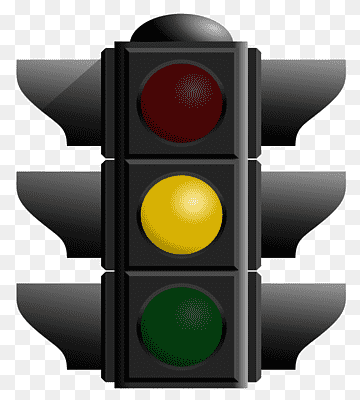
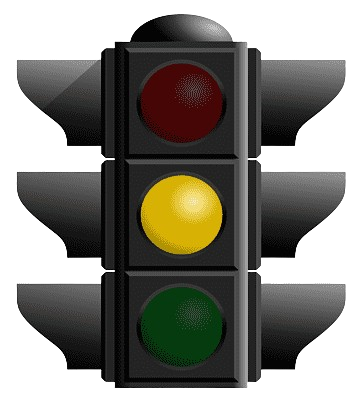
Se agregaron nuevas estructuras para la generacion de html dentro de javascript

diff --git a/js/app.js b/js/app.js
@@ -1,29 +1,29 @@
 
 // iconos en formato svg de relojes para cada hora
 const relojesHoras = {
-  1: `<svg xmlns="http://www.w3.org/2000/svg" viewBox="0 0 200 200" width="100" height="100"><circle cx="100" cy="100" r="85" fill="#ffffff" stroke="#2c3e50" stroke-width="6"/><line x1="100" y1="23" x2="100" y2="33" stroke="#2c3e50" stroke-width="4" stroke-linecap="round"/><line x1="177" y1="100" x2="167" y2="100" stroke="#2c3e50" stroke-width="4" stroke-linecap="round"/><line x1="100" y1="177" x2="100" y2="167" stroke="#2c3e50" stroke-width="4" stroke-linecap="round"/><line x1="23" y1="100" x2="33" y2="100" stroke="#2c3e50" stroke-width="4" stroke-linecap="round"/><line x1="100" y1="100" x2="142" y2="58" stroke="#2c3e50" stroke-width="6" stroke-linecap="round"/><line x1="100" y1="100" x2="100" y2="38" stroke="#2c3e50" stroke-width="4" stroke-linecap="round"/><circle cx="100" cy="100" r="5" fill="#e74c3c"/></svg>`,
+  1: `<svg xmlns="http://www.w3.org/2000/svg" viewBox="0 0 200 200" width="100" height="100"><circle cx="100" cy="100" r="85" fill="#ffffff" stroke="#2c3e50" stroke-width="6"/><line x1="100" y1="23" x2="100" y2="33" stroke="#2c3e50" stroke-width="4" stroke-linecap="round"/><line x1="177" y1="100" x2="167" y2="100" stroke="#2c3e50" stroke-width="4" stroke-linecap="round"/><line x1="100" y1="177" x2="100" y2="167" stroke="#2c3e50" stroke-width="4" stroke-linecap="round"/><line x1="23" y1="100" x2="33" y2="100" stroke="#2c3e50" stroke-width="4" stroke-linecap="round"/><line x1="100" y1="100" x2="122" y2="62" stroke="#2c3e50" stroke-width="6" stroke-linecap="round"/><line x1="100" y1="100" x2="100" y2="38" stroke="#2c3e50" stroke-width="4" stroke-linecap="round"/><circle cx="100" cy="100" r="5" fill="#e74c3c"/></svg>`,
   
-  2: `<svg xmlns="http://www.w3.org/2000/svg" viewBox="0 0 200 200" width="100" height="100"><circle cx="100" cy="100" r="85" fill="#ffffff" stroke="#2c3e50" stroke-width="6"/><line x1="100" y1="23" x2="100" y2="33" stroke="#2c3e50" stroke-width="4" stroke-linecap="round"/><line x1="177" y1="100" x2="167" y2="100" stroke="#2c3e50" stroke-width="4" stroke-linecap="round"/><line x1="100" y1="177" x2="100" y2="167" stroke="#2c3e50" stroke-width="4" stroke-linecap="round"/><line x1="23" y1="100" x2="33" y2="100" stroke="#2c3e50" stroke-width="4" stroke-linecap="round"/><line x1="100" y1="100" x2="142" y2="100" stroke="#2c3e50" stroke-width="6" stroke-linecap="round" transform="rotate(30 100 100)"/><line x1="100" y1="100" x2="100" y2="38" stroke="#2c3e50" stroke-width="4" stroke-linecap="round"/><circle cx="100" cy="100" r="5" fill="#e74c3c"/></svg>`,
+  2: `<svg xmlns="http://www.w3.org/2000/svg" viewBox="0 0 200 200" width="100" height="100"><circle cx="100" cy="100" r="85" fill="#ffffff" stroke="#2c3e50" stroke-width="6"/><line x1="100" y1="23" x2="100" y2="33" stroke="#2c3e50" stroke-width="4" stroke-linecap="round"/><line x1="177" y1="100" x2="167" y2="100" stroke="#2c3e50" stroke-width="4" stroke-linecap="round"/><line x1="100" y1="177" x2="100" y2="167" stroke="#2c3e50" stroke-width="4" stroke-linecap="round"/><line x1="23" y1="100" x2="33" y2="100" stroke="#2c3e50" stroke-width="4" stroke-linecap="round"/><line x1="100" y1="100" x2="138" y2="78" stroke="#2c3e50" stroke-width="6" stroke-linecap="round"/><line x1="100" y1="100" x2="100" y2="38" stroke="#2c3e50" stroke-width="4" stroke-linecap="round"/><circle cx="100" cy="100" r="5" fill="#e74c3c"/></svg>`,
   
-  3: `<svg xmlns="http://www.w3.org/2000/svg" viewBox="0 0 200 200" width="100" height="100"><circle cx="100" cy="100" r="85" fill="#ffffff" stroke="#2c3e50" stroke-width="6"/><line x1="100" y1="23" x2="100" y2="33" stroke="#2c3e50" stroke-width="4" stroke-linecap="round"/><line x1="177" y1="100" x2="167" y2="100" stroke="#2c3e50" stroke-width="4" stroke-linecap="round"/><line x1="100" y1="177" x2="100" y2="167" stroke="#2c3e50" stroke-width="4" stroke-linecap="round"/><line x1="23" y1="100" x2="33" y2="100" stroke="#2c3e50" stroke-width="4" stroke-linecap="round"/><line x1="100" y1="100" x2="155" y2="100" stroke="#2c3e50" stroke-width="6" stroke-linecap="round"/><line x1="100" y1="100" x2="100" y2="38" stroke="#2c3e50" stroke-width="4" stroke-linecap="round"/><circle cx="100" cy="100" r="5" fill="#e74c3c"/></svg>`,
+  3: `<svg xmlns="http://www.w3.org/2000/svg" viewBox="0 0 200 200" width="100" height="100"><circle cx="100" cy="100" r="85" fill="#ffffff" stroke="#2c3e50" stroke-width="6"/><line x1="100" y1="23" x2="100" y2="33" stroke="#2c3e50" stroke-width="4" stroke-linecap="round"/><line x1="177" y1="100" x2="167" y2="100" stroke="#2c3e50" stroke-width="4" stroke-linecap="round"/><line x1="100" y1="177" x2="100" y2="167" stroke="#2c3e50" stroke-width="4" stroke-linecap="round"/><line x1="23" y1="100" x2="33" y2="100" stroke="#2c3e50" stroke-width="4" stroke-linecap="round"/><line x1="100" y1="100" x2="144" y2="100" stroke="#2c3e50" stroke-width="6" stroke-linecap="round"/><line x1="100" y1="100" x2="100" y2="38" stroke="#2c3e50" stroke-width="4" stroke-linecap="round"/><circle cx="100" cy="100" r="5" fill="#e74c3c"/></svg>`,
   
-  4: `<svg xmlns="http://www.w3.org/2000/svg" viewBox="0 0 200 200" width="100" height="100"><circle cx="100" cy="100" r="85" fill="#ffffff" stroke="#2c3e50" stroke-width="6"/><line x1="100" y1="23" x2="100" y2="33" stroke="#2c3e50" stroke-width="4" stroke-linecap="round"/><line x1="177" y1="100" x2="167" y2="100" stroke="#2c3e50" stroke-width="4" stroke-linecap="round"/><line x1="100" y1="177" x2="100" y2="167" stroke="#2c3e50" stroke-width="4" stroke-linecap="round"/><line x1="23" y1="100" x2="33" y2="100" stroke="#2c3e50" stroke-width="4" stroke-linecap="round"/><line x1="100" y1="100" x2="142" y2="142" stroke="#2c3e50" stroke-width="6" stroke-linecap="round"/><line x1="100" y1="100" x2="100" y2="38" stroke="#2c3e50" stroke-width="4" stroke-linecap="round"/><circle cx="100" cy="100" r="5" fill="#e74c3c"/></svg>`,
+  4: `<svg xmlns="http://www.w3.org/2000/svg" viewBox="0 0 200 200" width="100" height="100"><circle cx="100" cy="100" r="85" fill="#ffffff" stroke="#2c3e50" stroke-width="6"/><line x1="100" y1="23" x2="100" y2="33" stroke="#2c3e50" stroke-width="4" stroke-linecap="round"/><line x1="177" y1="100" x2="167" y2="100" stroke="#2c3e50" stroke-width="4" stroke-linecap="round"/><line x1="100" y1="177" x2="100" y2="167" stroke="#2c3e50" stroke-width="4" stroke-linecap="round"/><line x1="23" y1="100" x2="33" y2="100" stroke="#2c3e50" stroke-width="4" stroke-linecap="round"/><line x1="100" y1="100" x2="138" y2="122" stroke="#2c3e50" stroke-width="6" stroke-linecap="round"/><line x1="100" y1="100" x2="100" y2="38" stroke="#2c3e50" stroke-width="4" stroke-linecap="round"/><circle cx="100" cy="100" r="5" fill="#e74c3c"/></svg>`,
   
-  5: `<svg xmlns="http://www.w3.org/2000/svg" viewBox="0 0 200 200" width="100" height="100"><circle cx="100" cy="100" r="85" fill="#ffffff" stroke="#2c3e50" stroke-width="6"/><line x1="100" y1="23" x2="100" y2="33" stroke="#2c3e50" stroke-width="4" stroke-linecap="round"/><line x1="177" y1="100" x2="167" y2="100" stroke="#2c3e50" stroke-width="4" stroke-linecap="round"/><line x1="100" y1="177" x2="100" y2="167" stroke="#2c3e50" stroke-width="4" stroke-linecap="round"/><line x1="23" y1="100" x2="33" y2="100" stroke="#2c3e50" stroke-width="4" stroke-linecap="round"/><line x1="100" y1="100" x2="100" y2="142" stroke="#2c3e50" stroke-width="6" stroke-linecap="round" transform="rotate(60 100 100)"/><line x1="100" y1="100" x2="100" y2="38" stroke="#2c3e50" stroke-width="4" stroke-linecap="round"/><circle cx="100" cy="100" r="5" fill="#e74c3c"/></svg>`,
+  5: `<svg xmlns="http://www.w3.org/2000/svg" viewBox="0 0 200 200" width="100" height="100"><circle cx="100" cy="100" r="85" fill="#ffffff" stroke="#2c3e50" stroke-width="6"/><line x1="100" y1="23" x2="100" y2="33" stroke="#2c3e50" stroke-width="4" stroke-linecap="round"/><line x1="177" y1="100" x2="167" y2="100" stroke="#2c3e50" stroke-width="4" stroke-linecap="round"/><line x1="100" y1="177" x2="100" y2="167" stroke="#2c3e50" stroke-width="4" stroke-linecap="round"/><line x1="23" y1="100" x2="33" y2="100" stroke="#2c3e50" stroke-width="4" stroke-linecap="round"/><line x1="100" y1="100" x2="122" y2="138" stroke="#2c3e50" stroke-width="6" stroke-linecap="round"/><line x1="100" y1="100" x2="100" y2="38" stroke="#2c3e50" stroke-width="4" stroke-linecap="round"/><circle cx="100" cy="100" r="5" fill="#e74c3c"/></svg>`,
   
-  6: `<svg xmlns="http://www.w3.org/2000/svg" viewBox="0 0 200 200" width="100" height="100"><circle cx="100" cy="100" r="85" fill="#ffffff" stroke="#2c3e50" stroke-width="6"/><line x1="100" y1="23" x2="100" y2="33" stroke="#2c3e50" stroke-width="4" stroke-linecap="round"/><line x1="177" y1="100" x2="167" y2="100" stroke="#2c3e50" stroke-width="4" stroke-linecap="round"/><line x1="100" y1="177" x2="100" y2="167" stroke="#2c3e50" stroke-width="4" stroke-linecap="round"/><line x1="23" y1="100" x2="33" y2="100" stroke="#2c3e50" stroke-width="4" stroke-linecap="round"/><line x1="100" y1="100" x2="100" y2="155" stroke="#2c3e50" stroke-width="6" stroke-linecap="round"/><line x1="100" y1="100" x2="100" y2="38" stroke="#2c3e50" stroke-width="4" stroke-linecap="round"/><circle cx="100" cy="100" r="5" fill="#e74c3c"/></svg>`,
+  6: `<svg xmlns="http://www.w3.org/2000/svg" viewBox="0 0 200 200" width="100" height="100"><circle cx="100" cy="100" r="85" fill="#ffffff" stroke="#2c3e50" stroke-width="6"/><line x1="100" y1="23" x2="100" y2="33" stroke="#2c3e50" stroke-width="4" stroke-linecap="round"/><line x1="177" y1="100" x2="167" y2="100" stroke="#2c3e50" stroke-width="4" stroke-linecap="round"/><line x1="100" y1="177" x2="100" y2="167" stroke="#2c3e50" stroke-width="4" stroke-linecap="round"/><line x1="23" y1="100" x2="33" y2="100" stroke="#2c3e50" stroke-width="4" stroke-linecap="round"/><line x1="100" y1="100" x2="100" y2="144" stroke="#2c3e50" stroke-width="6" stroke-linecap="round"/><line x1="100" y1="100" x2="100" y2="38" stroke="#2c3e50" stroke-width="4" stroke-linecap="round"/><circle cx="100" cy="100" r="5" fill="#e74c3c"/></svg>`,
   
-  7: `<svg xmlns="http://www.w3.org/2000/svg" viewBox="0 0 200 200" width="100" height="100"><circle cx="100" cy="100" r="85" fill="#ffffff" stroke="#2c3e50" stroke-width="6"/><line x1="100" y1="23" x2="100" y2="33" stroke="#2c3e50" stroke-width="4" stroke-linecap="round"/><line x1="177" y1="100" x2="167" y2="100" stroke="#2c3e50" stroke-width="4" stroke-linecap="round"/><line x1="100" y1="177" x2="100" y2="167" stroke="#2c3e50" stroke-width="4" stroke-linecap="round"/><line x1="23" y1="100" x2="33" y2="100" stroke="#2c3e50" stroke-width="4" stroke-linecap="round"/><line x1="100" y1="100" x2="58" y2="142" stroke="#2c3e50" stroke-width="6" stroke-linecap="round"/><line x1="100" y1="100" x2="100" y2="38" stroke="#2c3e50" stroke-width="4" stroke-linecap="round"/><circle cx="100" cy="100" r="5" fill="#e74c3c"/></svg>`,
+  7: `<svg xmlns="http://www.w3.org/2000/svg" viewBox="0 0 200 200" width="100" height="100"><circle cx="100" cy="100" r="85" fill="#ffffff" stroke="#2c3e50" stroke-width="6"/><line x1="100" y1="23" x2="100" y2="33" stroke="#2c3e50" stroke-width="4" stroke-linecap="round"/><line x1="177" y1="100" x2="167" y2="100" stroke="#2c3e50" stroke-width="4" stroke-linecap="round"/><line x1="100" y1="177" x2="100" y2="167" stroke="#2c3e50" stroke-width="4" stroke-linecap="round"/><line x1="23" y1="100" x2="33" y2="100" stroke="#2c3e50" stroke-width="4" stroke-linecap="round"/><line x1="100" y1="100" x2="78" y2="138" stroke="#2c3e50" stroke-width="6" stroke-linecap="round"/><line x1="100" y1="100" x2="100" y2="38" stroke="#2c3e50" stroke-width="4" stroke-linecap="round"/><circle cx="100" cy="100" r="5" fill="#e74c3c"/></svg>`,
   
-  8: `<svg xmlns="http://www.w3.org/2000/svg" viewBox="0 0 200 200" width="100" height="100"><circle cx="100" cy="100" r="85" fill="#ffffff" stroke="#2c3e50" stroke-width="6"/><line x1="100" y1="23" x2="100" y2="33" stroke="#2c3e50" stroke-width="4" stroke-linecap="round"/><line x1="177" y1="100" x2="167" y2="100" stroke="#2c3e50" stroke-width="4" stroke-linecap="round"/><line x1="100" y1="177" x2="100" y2="167" stroke="#2c3e50" stroke-width="4" stroke-linecap="round"/><line x1="23" y1="100" x2="33" y2="100" stroke="#2c3e50" stroke-width="4" stroke-linecap="round"/><line x1="100" y1="100" x2="58" y2="100" stroke="#2c3e50" stroke-width="6" stroke-linecap="round" transform="rotate(210 100 100)"/><line x1="100" y1="100" x2="100" y2="38" stroke="#2c3e50" stroke-width="4" stroke-linecap="round"/><circle cx="100" cy="100" r="5" fill="#e74c3c"/></svg>`,
+  8: `<svg xmlns="http://www.w3.org/2000/svg" viewBox="0 0 200 200" width="100" height="100"><circle cx="100" cy="100" r="85" fill="#ffffff" stroke="#2c3e50" stroke-width="6"/><line x1="100" y1="23" x2="100" y2="33" stroke="#2c3e50" stroke-width="4" stroke-linecap="round"/><line x1="177" y1="100" x2="167" y2="100" stroke="#2c3e50" stroke-width="4" stroke-linecap="round"/><line x1="100" y1="177" x2="100" y2="167" stroke="#2c3e50" stroke-width="4" stroke-linecap="round"/><line x1="23" y1="100" x2="33" y2="100" stroke="#2c3e50" stroke-width="4" stroke-linecap="round"/><line x1="100" y1="100" x2="62" y2="122" stroke="#2c3e50" stroke-width="6" stroke-linecap="round"/><line x1="100" y1="100" x2="100" y2="38" stroke="#2c3e50" stroke-width="4" stroke-linecap="round"/><circle cx="100" cy="100" r="5" fill="#e74c3c"/></svg>`,
   
-  9: `<svg xmlns="http://www.w3.org/2000/svg" viewBox="0 0 200 200" width="100" height="100"><circle cx="100" cy="100" r="85" fill="#ffffff" stroke="#2c3e50" stroke-width="6"/><line x1="100" y1="23" x2="100" y2="33" stroke="#2c3e50" stroke-width="4" stroke-linecap="round"/><line x1="177" y1="100" x2="167" y2="100" stroke="#2c3e50" stroke-width="4" stroke-linecap="round"/><line x1="100" y1="177" x2="100" y2="167" stroke="#2c3e50" stroke-width="4" stroke-linecap="round"/><line x1="23" y1="100" x2="33" y2="100" stroke="#2c3e50" stroke-width="4" stroke-linecap="round"/><line x1="100" y1="100" x2="45" y2="100" stroke="#2c3e50" stroke-width="6" stroke-linecap="round"/><line x1="100" y1="100" x2="100" y2="38" stroke="#2c3e50" stroke-width="4" stroke-linecap="round"/><circle cx="100" cy="100" r="5" fill="#e74c3c"/></svg>`,
+  9: `<svg xmlns="http://www.w3.org/2000/svg" viewBox="0 0 200 200" width="100" height="100"><circle cx="100" cy="100" r="85" fill="#ffffff" stroke="#2c3e50" stroke-width="6"/><line x1="100" y1="23" x2="100" y2="33" stroke="#2c3e50" stroke-width="4" stroke-linecap="round"/><line x1="177" y1="100" x2="167" y2="100" stroke="#2c3e50" stroke-width="4" stroke-linecap="round"/><line x1="100" y1="177" x2="100" y2="167" stroke="#2c3e50" stroke-width="4" stroke-linecap="round"/><line x1="23" y1="100" x2="33" y2="100" stroke="#2c3e50" stroke-width="4" stroke-linecap="round"/><line x1="100" y1="100" x2="56" y2="100" stroke="#2c3e50" stroke-width="6" stroke-linecap="round"/><line x1="100" y1="100" x2="100" y2="38" stroke="#2c3e50" stroke-width="4" stroke-linecap="round"/><circle cx="100" cy="100" r="5" fill="#e74c3c"/></svg>`,
   
-  10: `<svg xmlns="http://www.w3.org/2000/svg" viewBox="0 0 200 200" width="100" height="100"><circle cx="100" cy="100" r="85" fill="#ffffff" stroke="#2c3e50" stroke-width="6"/><line x1="100" y1="23" x2="100" y2="33" stroke="#2c3e50" stroke-width="4" stroke-linecap="round"/><line x1="177" y1="100" x2="167" y2="100" stroke="#2c3e50" stroke-width="4" stroke-linecap="round"/><line x1="100" y1="177" x2="100" y2="167" stroke="#2c3e50" stroke-width="4" stroke-linecap="round"/><line x1="23" y1="100" x2="33" y2="100" stroke="#2c3e50" stroke-width="4" stroke-linecap="round"/><line x1="100" y1="100" x2="58" y2="58" stroke="#2c3e50" stroke-width="6" stroke-linecap="round"/><line x1="100" y1="100" x2="100" y2="38" stroke="#2c3e50" stroke-width="4" stroke-linecap="round"/><circle cx="100" cy="100" r="5" fill="#e74c3c"/></svg>`,
+  10: `<svg xmlns="http://www.w3.org/2000/svg" viewBox="0 0 200 200" width="100" height="100"><circle cx="100" cy="100" r="85" fill="#ffffff" stroke="#2c3e50" stroke-width="6"/><line x1="100" y1="23" x2="100" y2="33" stroke="#2c3e50" stroke-width="4" stroke-linecap="round"/><line x1="177" y1="100" x2="167" y2="100" stroke="#2c3e50" stroke-width="4" stroke-linecap="round"/><line x1="100" y1="177" x2="100" y2="167" stroke="#2c3e50" stroke-width="4" stroke-linecap="round"/><line x1="23" y1="100" x2="33" y2="100" stroke="#2c3e50" stroke-width="4" stroke-linecap="round"/><line x1="100" y1="100" x2="62" y2="78" stroke="#2c3e50" stroke-width="6" stroke-linecap="round"/><line x1="100" y1="100" x2="100" y2="38" stroke="#2c3e50" stroke-width="4" stroke-linecap="round"/><circle cx="100" cy="100" r="5" fill="#e74c3c"/></svg>`,
   
-  11: `<svg xmlns="http://www.w3.org/2000/svg" viewBox="0 0 200 200" width="100" height="100"><circle cx="100" cy="100" r="85" fill="#ffffff" stroke="#2c3e50" stroke-width="6"/><line x1="100" y1="23" x2="100" y2="33" stroke="#2c3e50" stroke-width="4" stroke-linecap="round"/><line x1="177" y1="100" x2="167" y2="100" stroke="#2c3e50" stroke-width="4" stroke-linecap="round"/><line x1="100" y1="177" x2="100" y2="167" stroke="#2c3e50" stroke-width="4" stroke-linecap="round"/><line x1="23" y1="100" x2="33" y2="100" stroke="#2c3e50" stroke-width="4" stroke-linecap="round"/><line x1="100" y1="100" x2="100" y2="58" stroke="#2c3e50" stroke-width="6" stroke-linecap="round" transform="rotate(300 100 100)"/><line x1="100" y1="100" x2="100" y2="38" stroke="#2c3e50" stroke-width="4" stroke-linecap="round"/><circle cx="100" cy="100" r="5" fill="#e74c3c"/></svg>`,
+  11: `<svg xmlns="http://www.w3.org/2000/svg" viewBox="0 0 200 200" width="100" height="100"><circle cx="100" cy="100" r="85" fill="#ffffff" stroke="#2c3e50" stroke-width="6"/><line x1="100" y1="23" x2="100" y2="33" stroke="#2c3e50" stroke-width="4" stroke-linecap="round"/><line x1="177" y1="100" x2="167" y2="100" stroke="#2c3e50" stroke-width="4" stroke-linecap="round"/><line x1="100" y1="177" x2="100" y2="167" stroke="#2c3e50" stroke-width="4" stroke-linecap="round"/><line x1="23" y1="100" x2="33" y2="100" stroke="#2c3e50" stroke-width="4" stroke-linecap="round"/><line x1="100" y1="100" x2="78" y2="62" stroke="#2c3e50" stroke-width="6" stroke-linecap="round"/><line x1="100" y1="100" x2="100" y2="38" stroke="#2c3e50" stroke-width="4" stroke-linecap="round"/><circle cx="100" cy="100" r="5" fill="#e74c3c"/></svg>`,
   
-  12: `<svg xmlns="http://www.w3.org/2000/svg" viewBox="0 0 200 200" width="100" height="100"><circle cx="100" cy="100" r="85" fill="#ffffff" stroke="#2c3e50" stroke-width="6"/><line x1="100" y1="23" x2="100" y2="33" stroke="#2c3e50" stroke-width="4" stroke-linecap="round"/><line x1="177" y1="100" x2="167" y2="100" stroke="#2c3e50" stroke-width="4" stroke-linecap="round"/><line x1="100" y1="177" x2="100" y2="167" stroke="#2c3e50" stroke-width="4" stroke-linecap="round"/><line x1="23" y1="100" x2="33" y2="100" stroke="#2c3e50" stroke-width="4" stroke-linecap="round"/><line x1="100" y1="100" x2="100" y2="55" stroke="#2c3e50" stroke-width="6" stroke-linecap="round"/><line x1="100" y1="100" x2="100" y2="38" stroke="#2c3e50" stroke-width="4" stroke-linecap="round"/><circle cx="100" cy="100" r="5" fill="#e74c3c"/></svg>`
+  12: `<svg xmlns="http://www.w3.org/2000/svg" viewBox="0 0 200 200" width="100" height="100"><circle cx="100" cy="100" r="85" fill="#ffffff" stroke="#2c3e50" stroke-width="6"/><line x1="100" y1="23" x2="100" y2="33" stroke="#2c3e50" stroke-width="4" stroke-linecap="round"/><line x1="177" y1="100" x2="167" y2="100" stroke="#2c3e50" stroke-width="4" stroke-linecap="round"/><line x1="100" y1="177" x2="100" y2="167" stroke="#2c3e50" stroke-width="4" stroke-linecap="round"/><line x1="23" y1="100" x2="33" y2="100" stroke="#2c3e50" stroke-width="4" stroke-linecap="round"/><line x1="100" y1="100" x2="100" y2="56" stroke="#2c3e50" stroke-width="6" stroke-linecap="round"/><line x1="100" y1="100" x2="100" y2="38" stroke="#2c3e50" stroke-width="4" stroke-linecap="round"/><circle cx="100" cy="100" r="5" fill="#e74c3c"/></svg>`
 };
 
 // Solicitar al usuario el número de carteles, puertas y coches a mostrar
@@ -34,8 +34,14 @@ if (numCarteles < 0) {
 
 console.log("Creando " + numCarteles + " carteles");
 
+// Solicitar al usuario el número de la puerta a mostrar
+let numPuerta = parseInt(prompt("Ingrese el número de la puerta que desea mostrar:"));
+if (numPuerta < 0) {
+  alert("Por favor, ingrese un número válido de puerta.");
+}
+
 // Solicitar al usuario el número de puertas a mostrar
-const numPuertas = prompt("Ingrese el número de puertas que desea mostrar:");
+const numPuertas = parseInt(prompt("Ingrese el número de puertas que desea mostrar:"));
 if (numPuertas < 0) {
   alert("Por favor, ingrese un número válido de puertas.");
 }
@@ -43,7 +49,7 @@ if (numPuertas < 0) {
 console.log("Creando " + numPuertas + " puertas");
 
 // Solicitar al usuario el número de escaparates a mostrar
-const numEscaparates = prompt("Inserte el número de escaparates que desea mostrar:");
+let numEscaparates = parseInt(prompt("Inserte el número de escaparates que desea mostrar:"));
 if (numEscaparates < 0) {
   alert("Por favor, ingrese un número válido de escaparates.");
 }
@@ -58,6 +64,11 @@ if (hora < 1 || hora > 12) {
 
 console.log("Creando un reloj apuntando a las " + hora);
 
+const colorSemaforo = prompt("Ingrese el color del semáforo (rojo, amarillo, verde):");
+if (colorSemaforo !== "rojo" && colorSemaforo !== "amarillo" && colorSemaforo !== "verde") {
+  alert("Por favor, ingrese un color válido para el semáforo (rojo, amarillo, verde).");
+}
+
 // Solicitar al usuario el número de coches a mostrar
 const numCoches = prompt("Ingrese el número de coches que desea mostrar:");
 if (numCoches < 0) {
@@ -65,6 +76,85 @@ if (numCoches < 0) {
 }
 
 console.log("Creando " + numCoches + " coches");
+
+for (let i = 0; i < numCarteles; i++) {
+  document.write(`<div class="cartel"><img class="poster" src="img/poster.jpg" alt="Cartel ${i + 1}"></div>`);
+}
+
+document.write(`<div class="numero-y-puerta">`);
+for (let i = 0; i < numPuertas; i++) {  
+  document.write(`<div class="div-puerta">`)
+  document.write(`<div class="num-puerta">${numPuerta}</div>`);
+  document.write(`<div class="puerta"><img class="door" src="img/puerta.png" alt="Puerta ${i + 1}"></div>`);
+  document.write(`</div>`);
+  numPuerta += 2;
+}
+document.write(`</div>`);
+
+while (numEscaparates > 0) {
+  document.write(`<div class="escaparate"><img class="shop-window" src="img/escaparate.jpg" alt="Escaparate"></div>`);
+  numEscaparates--;
+}
+
+document.write(`<div class="reloj-semaforo">`);
+switch (hora) {
+  case "1":
+    document.write(relojesHoras[1]);
+    break;
+  case "2":
+    document.write(relojesHoras[2]);
+    break;
+  case "3":
+    document.write(relojesHoras[3]);
+    break;
+  case "4":
+    document.write(relojesHoras[4]);
+    break;
+  case "5":
+    document.write(relojesHoras[5]);
+    break;
+  case "6":
+    document.write(relojesHoras[6]);
+    break;
+  case "7":
+    document.write(relojesHoras[7]);
+    break;
+  case "8":
+    document.write(relojesHoras[8]);
+    break;
+  case "9":
+    document.write(relojesHoras[9]);
+    break;
+  case "10":
+    document.write(relojesHoras[10]);
+    break;
+  case "11":
+    document.write(relojesHoras[11]);
+    break;
+  case "12":
+    document.write(relojesHoras[12]);
+    break;
+}
+
+switch (colorSemaforo) {
+  case "rojo":
+    document.write(`<div class="semaforo"><img class="color-semaforo" src="img/rojo.png" alt="Semaforo Rojo"></div>`);
+    break;
+  case "amarillo":
+    document.write(`<div class="semaforo"><img class="color-semaforo" src="img/amarillo.png" alt="Semaforo Amarillo"></div>`);
+    break;
+  case "verde":
+    document.write(`<div class="semaforo"><img class="color-semaforo" src="img/verde.png" alt="Semaforo Verde"></div>`);
+    break;
+}
+document.write(`</div>`);
+
+for (let i = 0; i < numCoches; i++) {
+  document.write(`<div class="coche"><img class="car" src="img/car.png" alt="Coche ${i + 1}"></div>`);
+}
+
+
+
 
 
 

diff --git a/styles.css b/styles.css
@@ -1,3 +1,70 @@
 body {
     background-color: #B2FFFF;
 }
+
+.cartel {
+    display: inline-block;
+}
+
+.poster {
+    width: 200px;
+    height: 300px;
+    margin: 10px;
+}
+
+.div-puerta {
+    display:flex;
+    flex-direction: column;
+    width: 100px;
+}
+
+.num-puerta {
+    text-align: center;
+    font-size: 20px;
+    font-weight: bold;
+    padding: 5px;
+    border: 2px solid #000;
+}
+
+.door {
+    width: 100px;
+    height: 200px;
+}
+
+.numero-y-puerta {
+    display: flex;
+    flex-direction: row;
+    gap: 10px;
+}
+
+.escaparate {
+    display: inline-block;
+}
+
+.shop-window {
+    width: 250px;
+    height: 200px;
+    margin: 10px;
+}
+
+.color-semaforo {
+    width: 200px;
+    height: 200px;
+    margin: 5px;
+}
+
+.reloj-semaforo {
+  display: flex;
+  align-items: center; /* los centra verticalmente entre sí */
+  gap: 20px; /* espacio entre reloj y semáforo */
+}
+
+.coche {
+  display: inline-block;
+  margin: 10px;
+}
+
+.car {
+  width: 100px;
+  height: 50px;
+}
